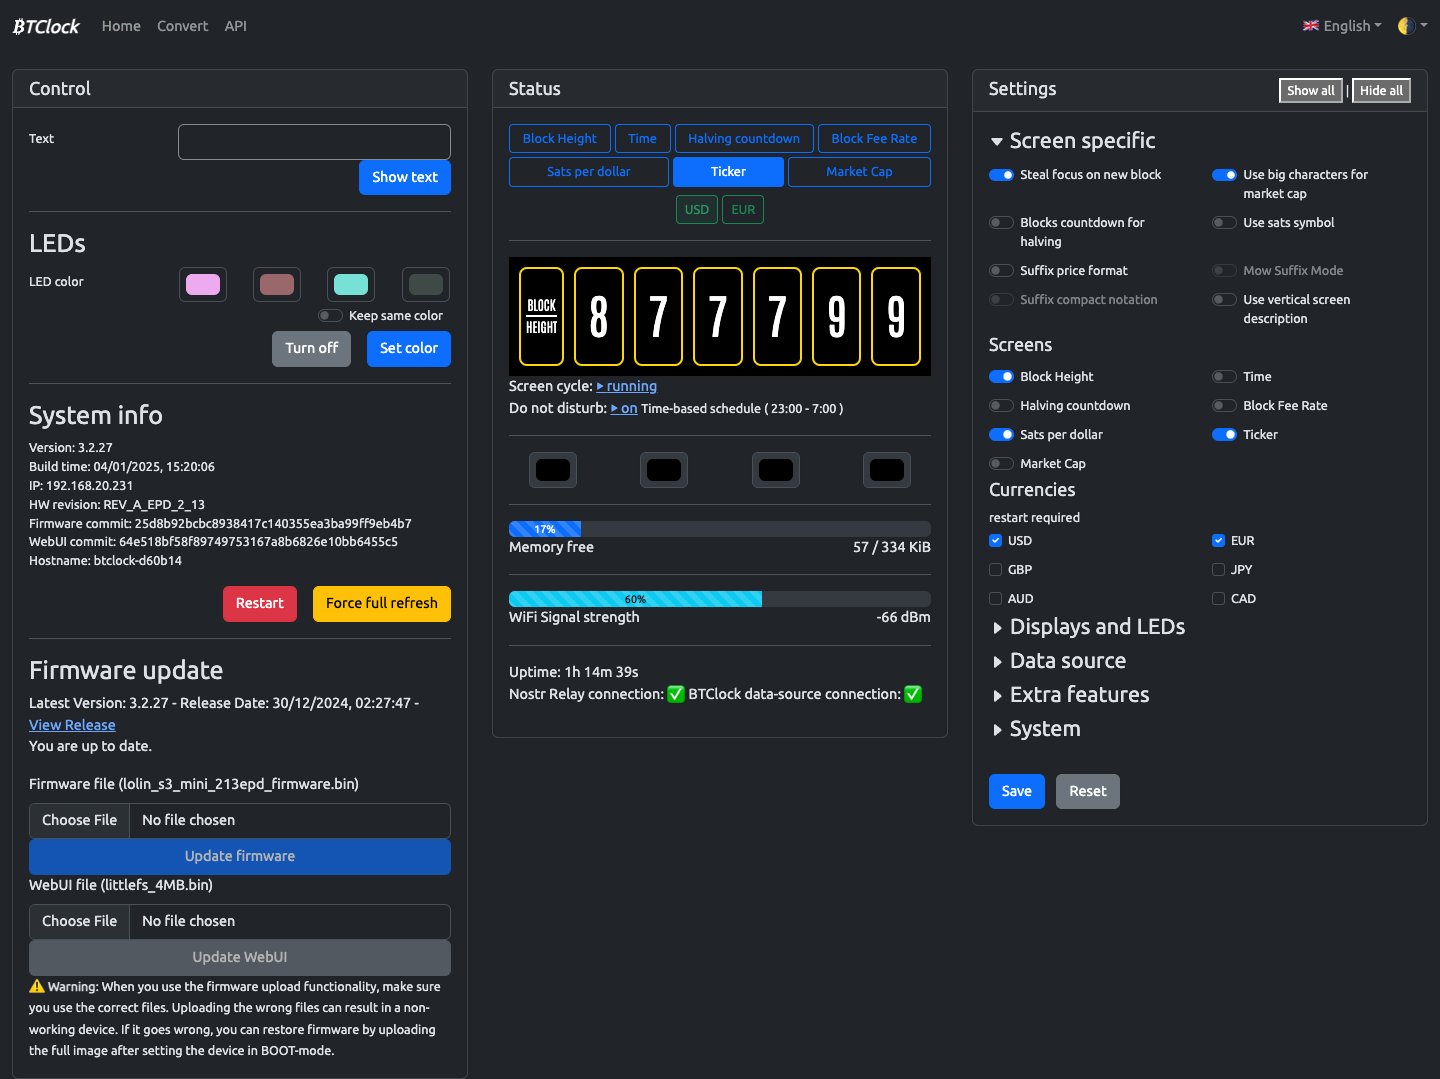
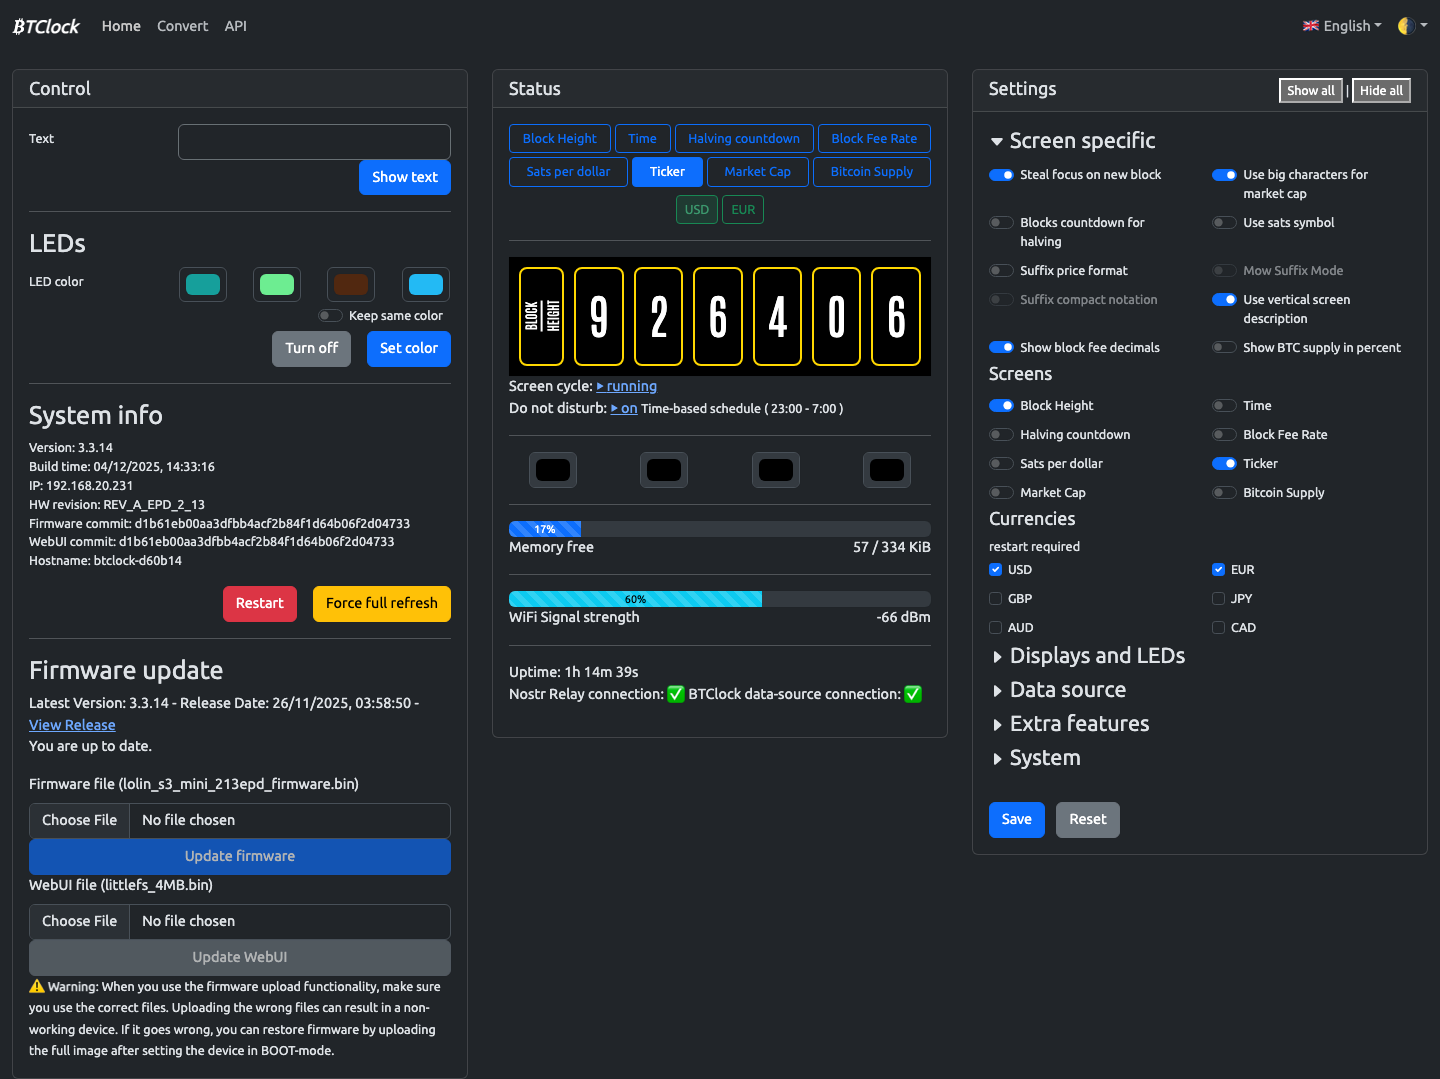
chore: update test fixtures and screenshots

diff --git a/tests/shared.ts b/tests/shared.ts
@@ -68,39 +68,66 @@ export const statusJson = {
 };
 
 export const settingsJson = {
-	numScreens: 7,
-	timerSeconds: 1800,
-	timerRunning: true,
-	minSecPriceUpd: 30,
-	fullRefreshMin: 60,
-	wpTimeout: 600,
-	tzOffset: 0,
-	dataSource: 0,
-	mempoolInstance: 'mempool.space',
-	ledTestOnPower: true,
-	ledFlashOnUpd: true,
-	ledBrightness: 128,
-	stealFocus: true,
-	mcapBigChar: true,
-	mdnsEnabled: true,
-	otaEnabled: true,
-	fetchEurPrice: false,
-	hostnamePrefix: 'btclock',
-	hostname: 'btclock-d60b14',
-	ip: '192.168.20.231',
-	txPower: 78,
-	gitRev: '25d8b92bcbc8938417c140355ea3ba99ff9eb4b7',
-	gitTag: '3.2.27',
+	actCurrencies: ['USD', 'EUR'],
+	availableCurrencies: ['USD', 'EUR', 'GBP', 'JPY', 'AUD', 'CAD'],
+	availableFonts: ['antonio', 'oswald'],
+	availablePools: [
+		'ocean',
+		'noderunners',
+		'satoshi_radio',
+		'braiins',
+		'public_pool',
+		'gobrrr_pool',
+		'ckpool',
+		'eu_ckpool'
+	],
 	bitaxeEnabled: false,
 	bitaxeHostname: 'bitaxe1',
-	miningPoolStats: false,
-	miningPoolName: 'ocean',
-	miningPoolUser: '38Qkkei3SuF1Eo45BaYmRHUneRD54yyTFy',
-	nostrZapNotify: true,
+	blockFeeDec: true,
+	blockFlashColor: 14697216,
+	ceEndpoint: 'ws-staging.btclock.dev',
+	ceDisableSSL: false,
+	dataSource: 0,
+	dnd: {
+		enabled: false,
+		timeBasedEnabled: true,
+		startHour: 23,
+		startMinute: 0,
+		endHour: 7,
+		endMinute: 0
+	},
+	disableLeds: false,
+	enableDebugLog: false,
+	fetchEurPrice: false,
+	fontName: 'antonio',
+	fsRev: 'd1b61eb00aa3dfbb4acf2b84f1d64b06f2d04733',
+	fullRefreshMin: 60,
+	gitRev: 'd1b61eb00aa3dfbb4acf2b84f1d64b06f2d04733',
+	gitTag: '3.3.14',
+	hostname: 'btclock-d60b14',
+	hostnamePrefix: 'btclock',
 	hwRev: 'REV_A_EPD_2_13',
-	fsRev: '64e518bf58f89749753167a8b6826e10bb6455c5',
[1 lines of base64/hex data omitted]
+	invertedColor: false,
+	ip: '192.168.20.231',
+	isFake: true,
+	isLoaded: true,
 	lastBuildTime: Math.round(new Date().getTime() / 1000),
+	ledBrightness: 128,
+	ledFlashOnUpd: true,
+	ledTestOnPower: true,
+	mcapBigChar: true,
+	mdnsEnabled: true,
+	mempoolInstance: 'mempool.space',
+	minSecPriceUpd: 30,
+	miningPoolName: 'ocean',
+	miningPoolStats: false,
+	miningPoolUser: '38Qkkei3SuF1Eo45BaYmRHUneRD54yyTFy',
+	mowMode: false,
+	nostrZapNotify: true,
[1 lines of base64/hex data omitted]
+	numScreens: 7,
+	otaEnabled: true,
+	refrScrnChange: false,
 	screens: [
 		{
 			id: 0,
@@ -125,7 +152,7 @@ export const settingsJson = {
 		{
 			id: 10,
 			name: 'Sats per dollar',
-			enabled: true
+			enabled: false
 		},
 		{
 			id: 20,
@@ -136,50 +163,42 @@ export const settingsJson = {
 			id: 30,
 			name: 'Market Cap',
 			enabled: false
+		},
+		{
+			id: 40,
+			name: 'Bitcoin Supply',
+			enabled: false
 		}
 	],
-	actCurrencies: ['USD', 'EUR'],
-	availableCurrencies: ['USD', 'EUR', 'GBP', 'JPY', 'AUD', 'CAD'],
-	availablePools: [
-		'ocean',
-		'noderunners',
-		'satoshi_radio',
-		'braiins',
-		'public_pool',
-		'gobrrr_pool',
-		'ckpool',
-		'eu_ckpool'
-	],
-	dnd: {
-		enabled: false,
-		timeBasedEnabled: true,
-		startHour: 23,
-		startMinute: 0,
-		endHour: 7,
-		endMinute: 0
-	},
-	availableFonts: ['antonio', 'oswald'],
-	invertedColor: false,
-	isLoaded: true,
-	isFake: true
+	stealFocus: true,
+	suffixPrice: false,
+	suffixShareDot: false,
+	supplyPercent: false,
+	timerRunning: true,
+	timerSeconds: 1800,
+	tzOffset: 0,
+	txPower: 78,
+	tzString: 'Europe/Amsterdam',
+	verticalDesc: true,
+	wpTimeout: 600
 };
 
 export const latestReleaseFake = {
-	id: 782,
-	tag_name: '3.2.24',
+	id: 1080,
+	tag_name: '3.3.14',
 	target_commitish: '',
-	name: '3.2.24',
+	name: '3.3.14',
 	body: '',
-	url: 'https://git.btclock.dev/api/v1/repos/btclock/btclock_v3/releases/782',
-	html_url: 'https://git.btclock.dev/btclock/btclock_v3/releases/tag/3.2.24',
-	tarball_url: 'https://git.btclock.dev/btclock/btclock_v3/archive/3.2.24.tar.gz',
-	zipball_url: 'https://git.btclock.dev/btclock/btclock_v3/archive/3.2.24.zip',
+	url: 'https://git.btclock.dev/api/v1/repos/btclock/btclock_v3/releases/1080',
+	html_url: 'https://git.btclock.dev/btclock/btclock_v3/releases/tag/3.3.14',
+	tarball_url: 'https://git.btclock.dev/btclock/btclock_v3/archive/3.3.14.tar.gz',
+	zipball_url: 'https://git.btclock.dev/btclock/btclock_v3/archive/3.3.14.zip',
 	hide_archive_links: false,
-	upload_url: 'https://git.btclock.dev/api/v1/repos/btclock/btclock_v3/releases/782/assets',
+	upload_url: 'https://git.btclock.dev/api/v1/repos/btclock/btclock_v3/releases/1080/assets',
 	draft: false,
 	prerelease: false,
-	created_at: '2024-12-28T17:48:05Z',
-	published_at: '2024-12-28T17:48:05Z',
+	created_at: '2025-11-26T02:58:50Z',
+	published_at: '2025-11-26T02:58:50Z',
 	author: {},
 	assets: [],
 	archive_download_count: {
